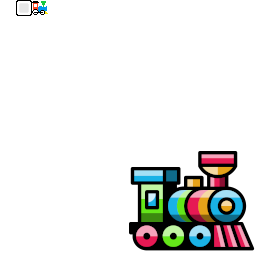
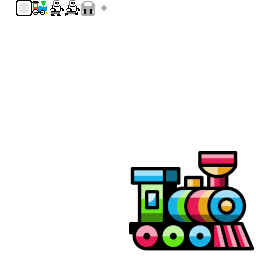
improve examples
add animation example

Changed region(s): [[0.1875, 0.0, 0.375, 0.0625]]

diff --git a/shortExamples/code/spriteAtlas.js b/shortExamples/code/spriteAtlas.js
@@ -9,7 +9,8 @@ function gameInit()
         circle:    gameTile(0),
         crate:     gameTile(1),
         icon:      gameTile(2),
-        largeIcon: gameTile(vec2(1,1),128),
+        circleBig: gameTile(vec2(0,1),128),
+        iconBig:   gameTile(vec2(1,1),128),
     };
 }
 
@@ -18,10 +19,16 @@ function gameRender()
     drawRect(vec2(0,0), vec2(100), GRAY); // draw background
 
     // draw a sprite from the atlas
-    let pos = vec2(0,0);             // world position to draw
-    let angle = 0;                   // world space angle to draw the tile
-    let size = vec2(15);              // world size of the tile
-    let mirror = 0;                  // should tile be mirrored?
-    let color = hsl(0,0,1);          // color to multiply the tile by
-    drawTile(pos, size, spriteAtlas.largeIcon, color, angle, mirror);
+    let pos = vec2(Math.sin(time)*5,-3);// world position to draw
+    let angle = 0;                      // world space angle to draw the tile
+    let size = vec2(9);                 // world size of the tile
+    let mirror = 0;                     // should tile be mirrored?
+    let color = hsl(0,0,1);             // color to multiply the tile by
+    let additiveColor = hsl(0,0,0,0);   // color to add to
+    drawTile(pos, size, spriteAtlas.iconBig, color, angle, mirror, additiveColor);
+
+    // draw more sprites from the atlas
+    drawTile(vec2(-7,4), vec2(5), spriteAtlas.crate);
+    drawTile(vec2( 0,4), vec2(5), spriteAtlas.circle);
+    drawTile(vec2( 7,4), vec2(5), spriteAtlas.circleBig);
 }

diff --git a/shortExamples/index.html b/shortExamples/index.html
@@ -114,6 +114,7 @@ const exampleList =
     new ExampleInfo('Play Sound', 'playSound.js', 'How to play sounds with zzfx'),
     new ExampleInfo('System Font', 'systemFont.js', 'Demo of the included system font'),
     new ExampleInfo('Sprite Atlas', 'spriteAtlas.js', 'How to set up a simple sprite atlas'),
+    new ExampleInfo('Animation', 'animation.js', 'How to animate sprites'),
     new ExampleInfo('Tile Layer', 'tileLayer.js', 'How to use a tile layer for collision and rendering'),
     new ExampleInfo('Pong Game', 'pong.js', 'A simple pong game using LittleJS physics'),
     
@@ -226,7 +227,7 @@ function setCode(code)
             return; // stop if script error
         
         // start LittleJS engine
-        iframeContent.engineInit(iframeContent.gameInit, iframeContent.gameUpdate, iframeContent.gameUpdatePost, iframeContent.gameRender, iframeContent.gameRenderPost, ['tiles.png']);
+        iframeContent.engineInit(iframeContent.gameInit, iframeContent.gameUpdate, iframeContent.gameUpdatePost, iframeContent.gameRender, iframeContent.gameRenderPost, ['tiles.png?1']);
     }
     iframeExample.src = 'base.html';
 }

diff --git a/shortExamples/code/blending.js b/shortExamples/code/blending.js
@@ -1,12 +1,16 @@
 function gameRender()
 {
+    const circleTile = tile(vec2(0,1), 128);
+
     // additive blend
     setBlendMode(1);
-    drawTile(vec2(1, 3), vec2(6), tile(0), rgb(1,0,0));
-    drawTile(vec2(-1,3), vec2(6), tile(0), rgb(0,0,1));
+    drawTile(vec2(-4,-2), vec2(7), circleTile, rgb(1,0,0));
+    drawTile(vec2(-6, 2), vec2(7), circleTile, rgb(0,1,0));
+    drawTile(vec2(-8,-2), vec2(7), circleTile, rgb(0,0,1));
 
     // alpha blend
     setBlendMode(0);
-    drawTile(vec2(1, -3), vec2(6), tile(0), rgb(1,0,0,.5));
-    drawTile(vec2(-1,-3), vec2(6), tile(0), rgb(0,0,1,.5));
+    drawTile(vec2(4,-2), vec2(7), circleTile, rgb(1,0,0,.5));
+    drawTile(vec2(6, 2), vec2(7), circleTile, rgb(0,1,0,.5));
+    drawTile(vec2(8,-2), vec2(7), circleTile, rgb(0,0,1,.5));
 }

diff --git a/shortExamples/code/animation.js b/shortExamples/code/animation.js
@@ -1,0 +1,19 @@
+function gameRender()
+{
+    drawRect(vec2(0,0), vec2(100), GRAY); // draw background
+
+    {
+        // animate using multiple frames
+        const pos = vec2(-7, 2*abs(Math.sin(time*2*PI)));
+        const frame = (time*4)%2|0;
+        drawTile(pos, vec2(7), tile(3).frame(frame), RED);
+    }
+
+    {
+        // animate with stretch and squash
+        const s = Math.sin(time*9)*.5;
+        const size = vec2(7-s,7+s);
+        const pos = vec2(5,size.y-7);
+        drawTile(pos, size, tile(5), GREEN);
+    }
+}

diff --git a/shortExamples/base.html b/shortExamples/base.html
@@ -12,13 +12,16 @@
 <script src=../src/engineParticles.js?1105></script>
 <script src=../src/engineMedals.js?1105></script>
 <script src=../src/engineWebGL.js?1105></script>
-<script src=../src/engine.js?1105></script>\
+<script src=../src/engine.js?1105></script>
 <script>
 
 'use strict';
 
 // use fixed size canvas for examples
 canvasFixedSize = vec2(960, 540);
+
+// fix bleeding from neighboring pixels
+tileFixBleedScale = .5;
 
 // allow improved scaling
 canvasPixelated = false;
